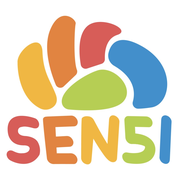
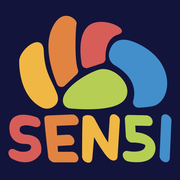
Actualizar icono de pantalla de inicio con fondo azul marino

diff --git a/index.html b/index.html
@@ -4,7 +4,7 @@
 <meta charset="UTF-8">
 <meta name="viewport" content="width=device-width, initial-scale=1.0, maximum-scale=1.0">
 <title>Sensi Portal</title>
-<meta name="theme-color" content="#2F6F62">
+<meta name="theme-color" content="#12143B">
 <link rel="manifest" href="/manifest.json">
 <link rel="icon" href="/icon-192.png">
 <link rel="apple-touch-icon" href="/apple-touch-icon.png">
